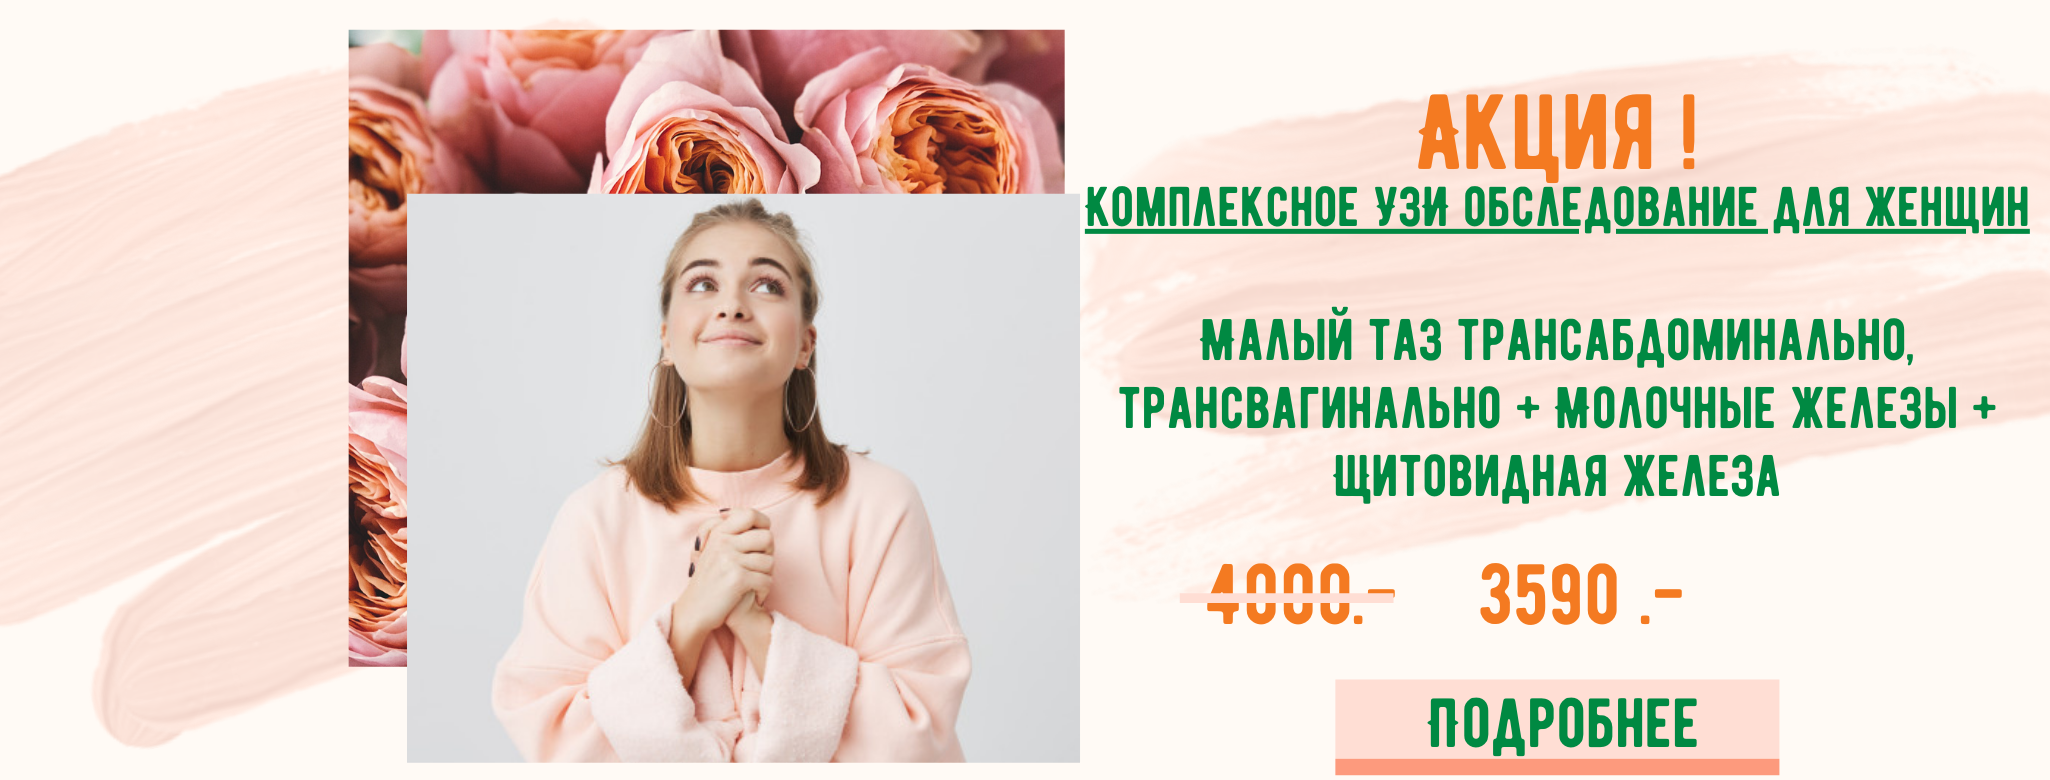
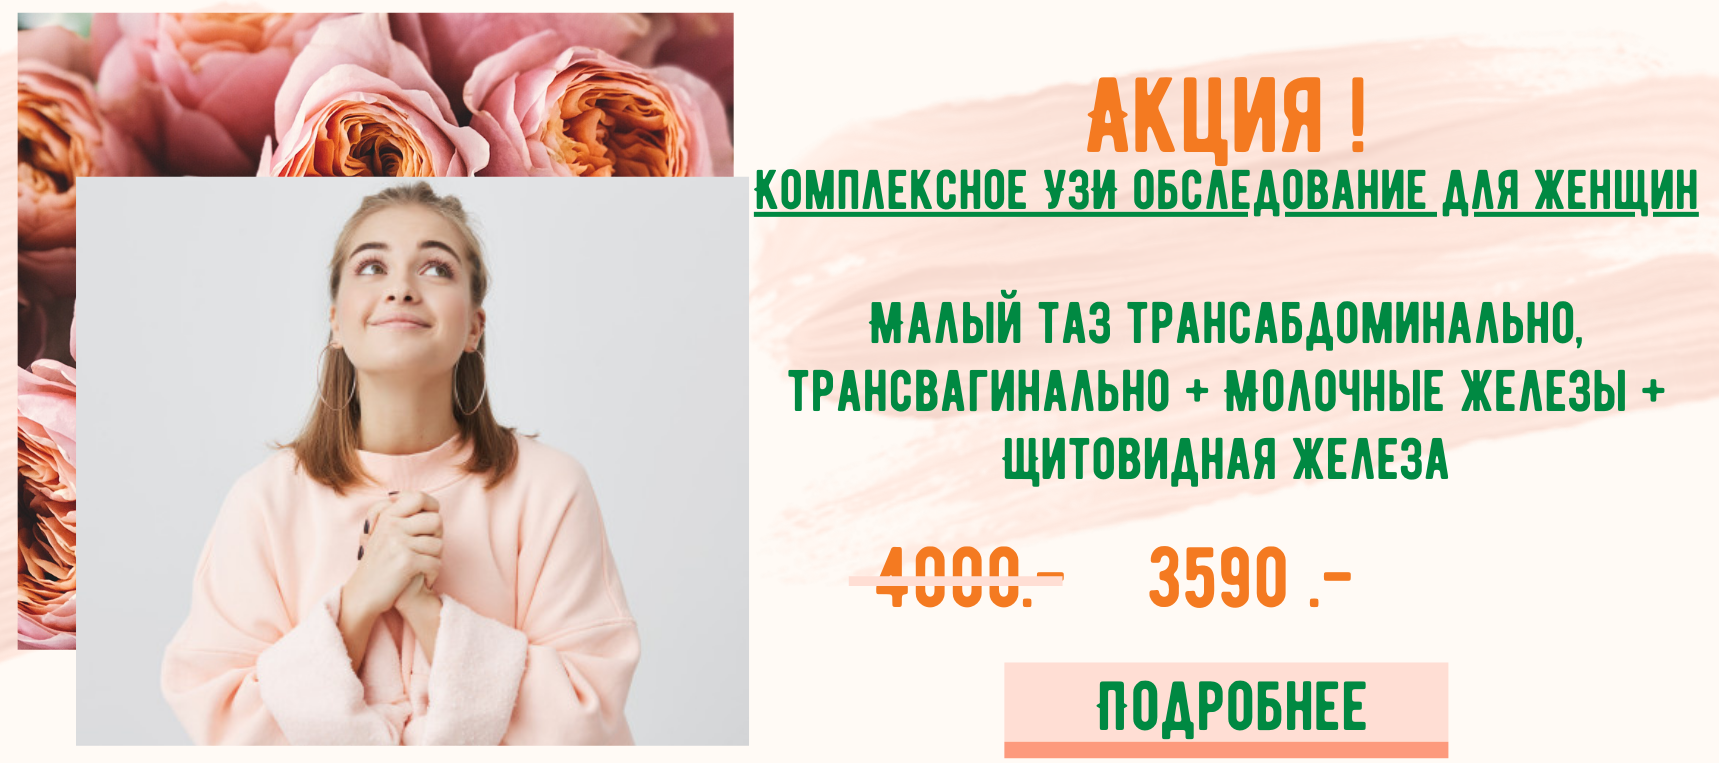
small fix

diff --git a/src/pages/uzi.js b/src/pages/uzi.js
@@ -63,7 +63,7 @@ class Generic extends React.Component {
             <h3>УЗИ молочных желез с цветным доплеровским картированием + УЗИ щитовидной железы 999 рублей (вместо 1510 рублей)</h3>
             </header>
             <Link to="/contactform">
-            <img src={offer02} alt="Ваш + Доктор | Гинеколог" width="70%"/>
+            <img src={offer02} alt="Ваш + Доктор | Гинеколог" width="95%"/>
             </Link>
             
             
@@ -74,7 +74,7 @@ class Generic extends React.Component {
             <h3>УЗИ малого таза трансабдоминально, трансвагинально + УЗИ молочных желез + УЗИ щитовидной железы за 3590 (вместо 4000).</h3>
             
             <Link to="/contactform">
-            <img src={offer03} alt="Ваш + Доктор | Гинеколог" width="70%"/>
+            <img src={offer03} alt="Ваш + Доктор | Гинеколог" width="95%"/>
             </Link>
             </header>
         

diff --git a/src/pages/beremennost.js b/src/pages/beremennost.js
@@ -57,7 +57,7 @@ class Generic extends React.Component {
             <h3>Первичный приём + УЗИ матки трансабдоминальное, трансвагинальное за 2990 (вместо 3550).</h3>
             
             <Link to="/contactform">
-            <img src={offer01} alt="Ваш + Доктор | Гинеколог" width="70%"/>
+            <img src={offer01} alt="Ваш + Доктор | Гинеколог" width="95%"/>
             </Link>
             </header>
             <header class="major">
@@ -65,7 +65,7 @@ class Generic extends React.Component {
             <h3>УЗИ малого таза трансабдоминально, трансвагинально + УЗИ молочных желез + УЗИ щитовидной железы за 3590 (вместо 4000).</h3>
             
             <Link to="/contactform">
-            <img src={offer03} alt="Ваш + Доктор | Гинеколог" width="70%"/>
+            <img src={offer03} alt="Ваш + Доктор | Гинеколог" width="95%"/>
             </Link>
             </header>
             

diff --git a/src/pages/ginekologia.js b/src/pages/ginekologia.js
@@ -61,7 +61,7 @@ class Generic extends React.Component {
             <h3>УЗИ молочных желез с цветным доплеровским картированием + УЗИ щитовидной железы 999 рублей (вместо 1510 рублей)</h3>
             </header>
             <Link to="/contactform">
-            <img src={offer02} alt="Ваш + Доктор | Гинеколог" width="70%"/>
+            <img src={offer02} alt="Ваш + Доктор | Гинеколог" width="95%"/>
             </Link>
 
             <header class="major">
@@ -69,7 +69,7 @@ class Generic extends React.Component {
             <h3>Первичный приём + УЗИ матки трансабдоминальное, трансвагинальное за 2990 (вместо 3550).</h3>
             
             <Link to="/contactform">
-            <img src={offer01} alt="Ваш + Доктор | Гинеколог" width="70%"/>
+            <img src={offer01} alt="Ваш + Доктор | Гинеколог" width="95%"/>
             </Link>
             </header>
             
